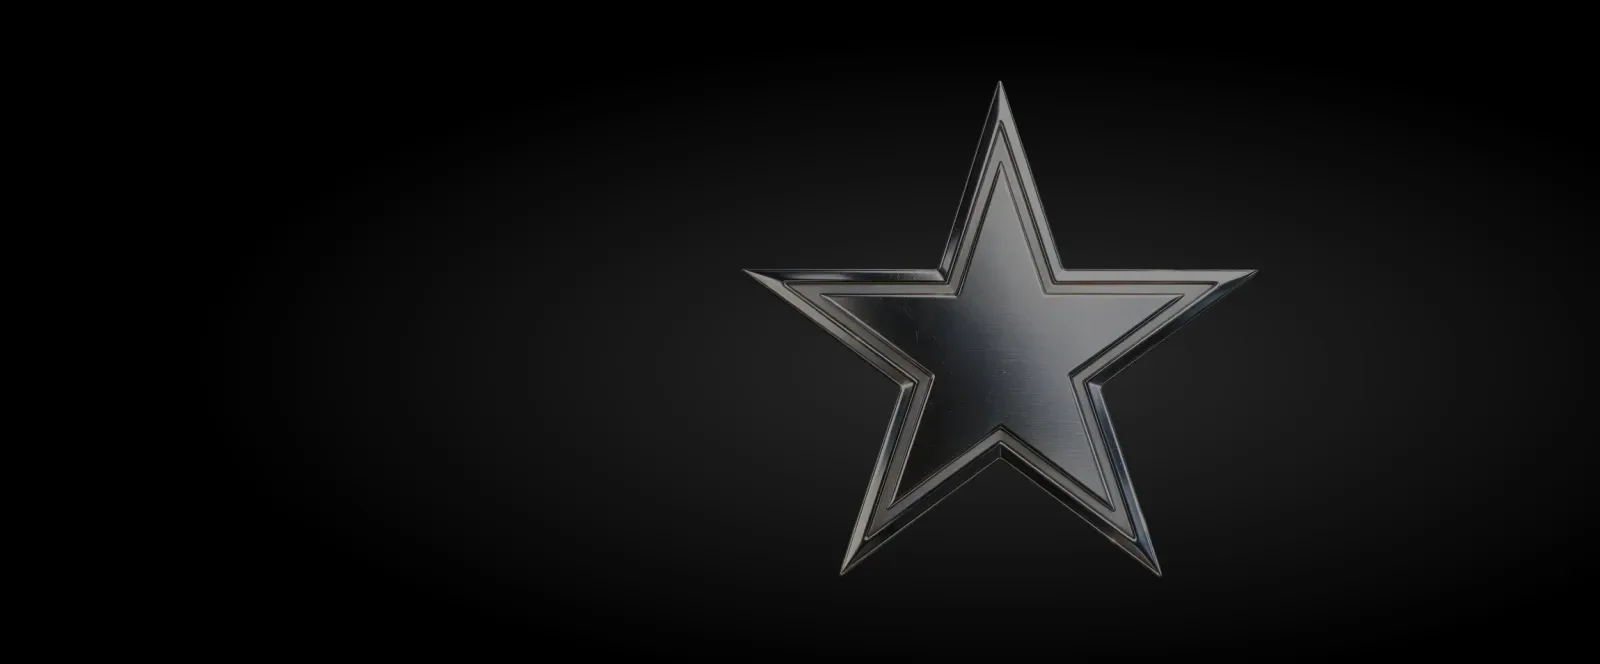
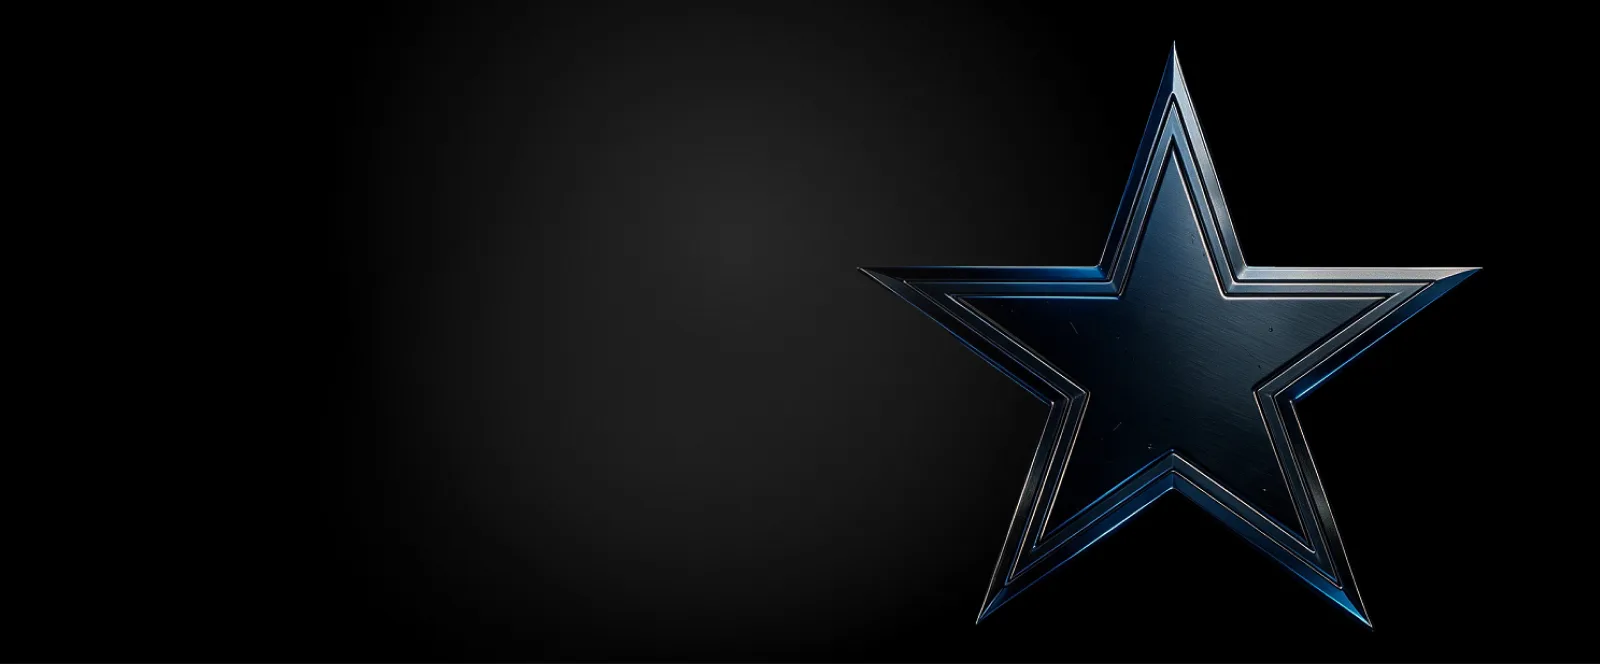
mobile

Changed region(s): [[0.4688, 0.0602, 0.9375, 0.9337], [0.5938, 0.9036, 0.625, 0.9337], [0.5, 0.8434, 0.5312, 0.8735]]

diff --git a/src/screens/IndividualTeam/IndividualTeam.module.css b/src/screens/IndividualTeam/IndividualTeam.module.css
@@ -541,24 +541,24 @@
   line-height: var(--font-bc2-r-line);
 }
 
+/*
+ * The Mb asset is an export of the whole 430x638 section frame at 3x
+ * (1290x1950, 12px of headroom): a black gradient with the crest flush
+ * against its bottom edge, exactly like the Dt asset is the whole desktop
+ * section. The 282.72px band this replaces was a mis-measured sub-box — it
+ * stopped 16px short of the section and floated the crest with a bar of
+ * backdrop under it, and its edges read as a grey rectangle on the backdrop's
+ * gradient.
+ */
 .predictionImageBox {
   position: absolute;
-  top: 339.48px;
-  left: 0;
+  inset: 0;
   z-index: 1;
   display: block;
-  width: 100%;
-  height: 282.72px;
   overflow: hidden;
 }
 
-/*
- * The mobile asset is a 1290x1950 portrait -- a black gradient with the crest
- * in its bottom third -- while this box is a 282.72px landscape band. Without
- * a fit the default `fill` stretched that portrait to the box, squeezing every
- * crest sideways. Cover from the bottom keeps the source proportions and lands
- * the crest in the band, the same crop .heroImage takes.
- */
+/* Cover from the bottom, where the crest sits flush in the export. */
 .predictionImage {
   display: block;
   width: 100%;
@@ -1264,21 +1264,11 @@
 
   /*
    * The Dt asset is an export of the whole 1280x531 section frame at 1.25x
-   * (1600x664): its black-steel gradient IS the section background, with the
-   * crest against the right edge and the copy overlaid on its dark left half.
-   * Boxing it smaller paints the asset's edges as a grey rectangle floating
-   * on the backdrop — the box has to be the section.
+   * (1600x664), the same way the Mb asset is the whole mobile section — the
+   * box is already the section; only the crest's flush edge moves, from the
+   * bottom of the portrait to the right of the letterbox.
    */
-  .predictionImageBox {
-    top: 0;
-    left: 0;
-    width: 100%;
-    height: 100%;
-  }
-
-  /* Cover from the right, where the crest sits flush in the export. */
   .predictionImage {
-    object-fit: cover;
     object-position: right center;
   }
 

diff --git a/tests/visual/responsive.spec.ts b/tests/visual/responsive.spec.ts
@@ -1147,9 +1147,12 @@ test.describe('responsive integrity', () => {
     })
     await expect(heroImage).toHaveCSS('object-fit', 'cover')
     await expect(heroImage).toHaveCSS('object-position', '50% 100%')
+    // The Mb crest asset is the whole 430x638 section frame exported at 3x, so
+    // its box is the section — a smaller band floated the crest with a bar of
+    // backdrop under it and painted the asset's edges on the backdrop.
     const predictionImage = await page.locator('[data-node-id="162:1674"] img').boundingBox()
     expect(predictionImage?.width).toBeCloseTo(430, 0)
-    expect(predictionImage?.height).toBeCloseTo(282.72, 1)
+    expect(predictionImage?.height).toBeCloseTo(638, 0)
     // Cover-cropped and pushed 82px down the section, per the Figma fill.
     const favouriteImage = page.locator('[data-node-id="188:2513"] picture img')
     const favouriteImageBox = await favouriteImage.boundingBox()

diff --git a/src/data/cms.ts b/src/data/cms.ts
@@ -179,8 +179,9 @@ const LOCAL_IMAGES: Record<string, string> = localImages
  *
  * The wrong files live in the Base44 hub, which this repo cannot write to, so
  * each bad url is re-pointed here — at the team's own upload where one exists,
- * else at a stand-in built from the team's own imagery by
- * scripts/build-image-fixes.mjs. Keying on the exact published url means a fix
+ * else at the design's own frame for that slot, exported from the Figma file
+ * into public/cms-fixes/ (see scripts/build-image-fixes.mjs for the frame
+ * ids). Keying on the exact published url means a fix
  * retires itself the moment the CMS republishes that slot with a corrected
  * upload, which changes the url. Remote targets still resolve through
  * LOCAL_IMAGES below, exactly as if the CMS had published them.
